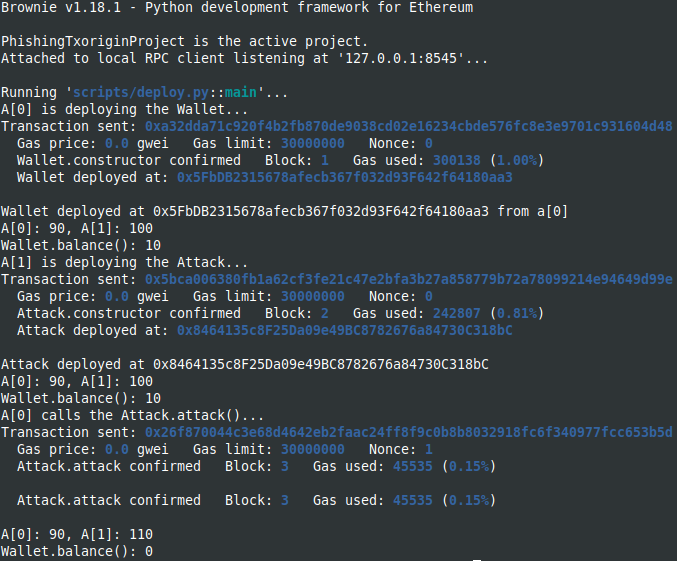
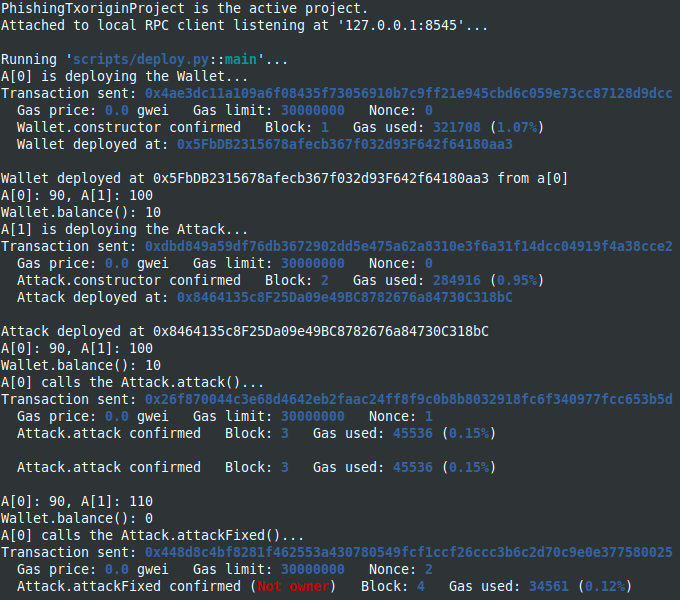
include fixes and readme

Changed region(s): [[0.0, 0.0, 0.9926, 1.0], [0.6514, 0.9697, 0.9306, 1.0]]

diff --git a/scripts/deploy.py b/scripts/deploy.py
@@ -18,6 +18,11 @@ def main():
     tx.wait(1)
     print_balances()
 
+    print("A[0] calls the Attack.attackFixed()...")
+    tx = a.attackFixed({"from": accounts[0]})
+    tx.wait(1)
+    print_balances()
+
 
 def print_balances():
     a0 = Web3.fromWei(accounts[0].balance(), "ether")

diff --git a/README.md b/README.md
@@ -15,4 +15,6 @@ The result in the hardhat console :
 
 ![Hardhat console ](phishing_txorigin_console.png)
 
+When calling attackFixed which calls transferFixed(), this last function perform the correct check and revert the transaction.
+
 So, don't rely on tx.origin to check the sender of transaction, use msg.sender instead.
